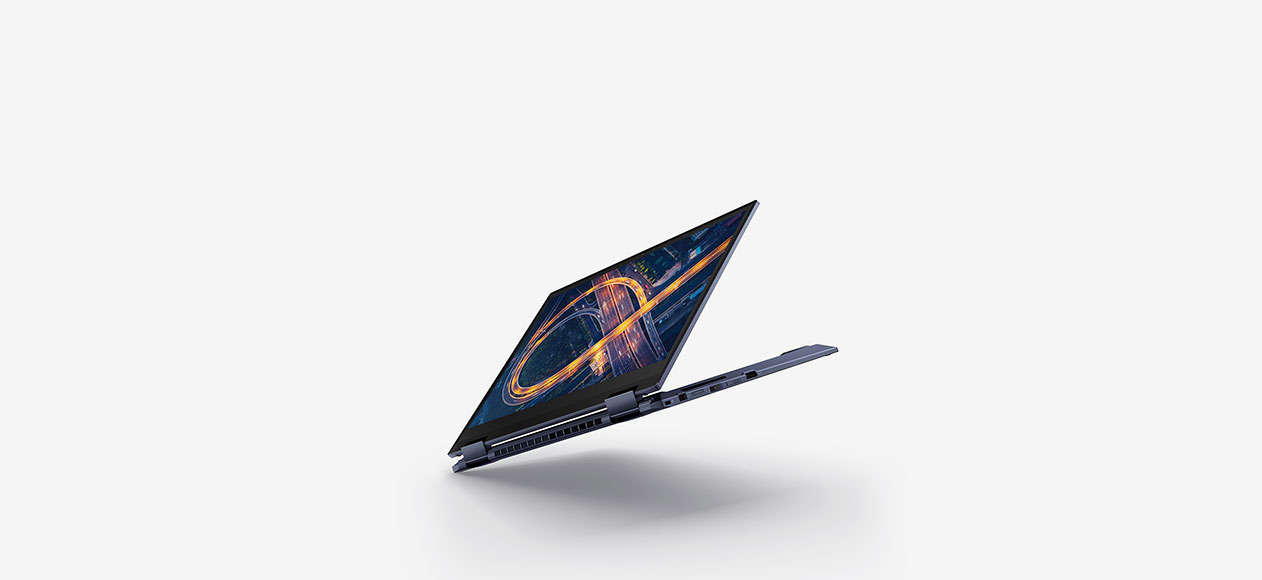
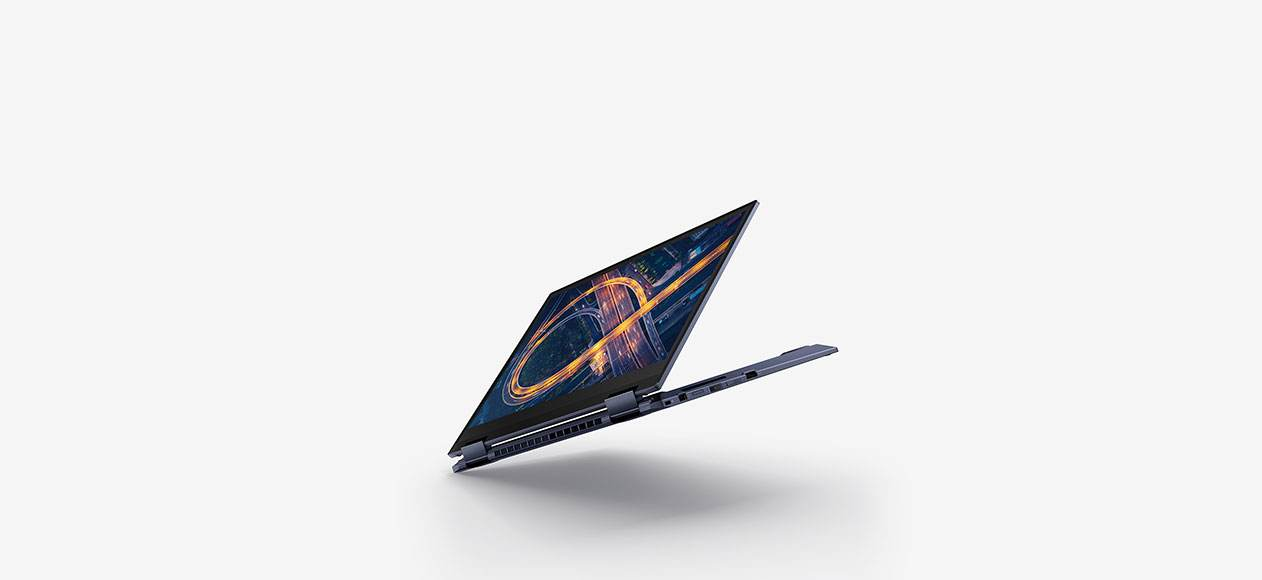
optimized the images

Changed region(s): [[0.4017, 0.4034, 0.5872, 0.7138]]

diff --git a/components/Guides.vue b/components/Guides.vue
@@ -10,7 +10,7 @@
       >
         <nuxt-link to="/guides/1">
           <div
-            class="w-full h-full hover:transform hover:scale-110 bg-[url('/guides/pc.jpg')] guides-bg"
+            class="w-full h-full hover:transform hover:scale-110 bg-[url('/guides/pc.webp')] guides-bg"
           ></div>
           <div
             class="mt-auto absolute bottom-0 left-0 py-3 px-4 w-full bg-gray-900 z-10 text-white bg-opacity-70"
@@ -31,7 +31,7 @@
       >
         <nuxt-link to="/guides/3">
           <div
-            class="w-full h-full hover:transform hover:scale-110 bg-[url('/guides/fan.jpg')] guides-bg"
+            class="w-full h-full hover:transform hover:scale-110 bg-[url('/guides/fan.webp')] guides-bg"
           ></div>
           <div
             class="mt-auto absolute bottom-0 left-0 py-3 px-4 max-h-[50%] w-full bg-gray-900 z-10 text-white bg-opacity-70"
@@ -53,7 +53,7 @@
       >
         <nuxt-link to="/guides/4">
           <div
-            class="w-full h-full hover:transform hover:scale-110 bg-[url('/guides/gpu.jpg')] guides-bg"
+            class="w-full h-full hover:transform hover:scale-110 bg-[url('/guides/gpu.webp')] guides-bg"
           ></div>
           <div
             class="mt-auto absolute bottom-0 left-0 py-3 px-4 max-h-[50%] w-full bg-gray-900 z-10 text-white bg-opacity-70"
@@ -78,7 +78,7 @@
       >
         <nuxt-link to="/guides/2">
           <div
-            class="w-full h-full hover:transform hover:scale-110 bg-[url('/guides/league.jpg')] guides-bg"
+            class="w-full h-full hover:transform hover:scale-110 bg-[url('/guides/league.webp')] guides-bg"
           ></div>
           <div
             class="mt-auto absolute bottom-0 left-0 py-3 px-4 max-h-[50%] w-full bg-gray-900 z-10 text-white bg-opacity-70"
@@ -102,7 +102,7 @@
       >
         <nuxt-link to="/guides/5">
           <div
-            class="w-full h-full hover:transform hover:scale-110 bg-[url('/guides/ces.jpg')] guides-bg"
+            class="w-full h-full hover:transform hover:scale-110 bg-[url('/guides/ces.webp')] guides-bg"
           ></div>
           <div
             class="mt-auto absolute bottom-0 left-0 py-3 px-4 max-h-[50%] w-full bg-gray-900 z-10 text-white bg-opacity-70"

diff --git a/pages/index.vue b/pages/index.vue
@@ -51,11 +51,11 @@ export default {
       items: [
         {
           id: 1,
-          url: "b1.jpg",
+          url: "b1.webp",
         },
         {
           id: 2,
-          url: "b2.jpg",
+          url: "b2.webp",
         },
       ],
     }
